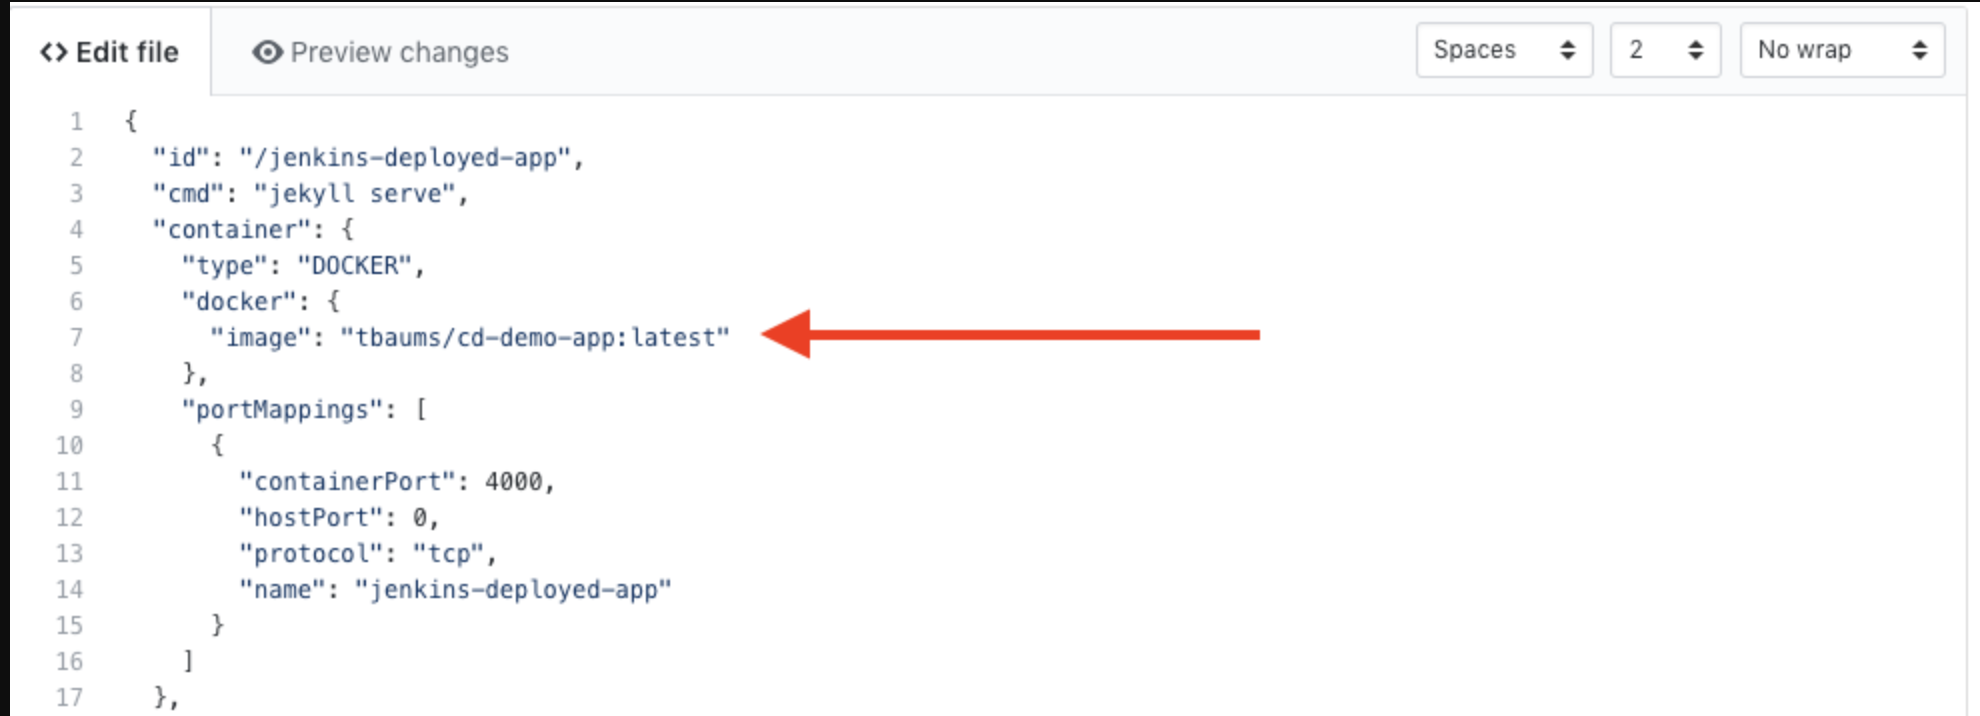
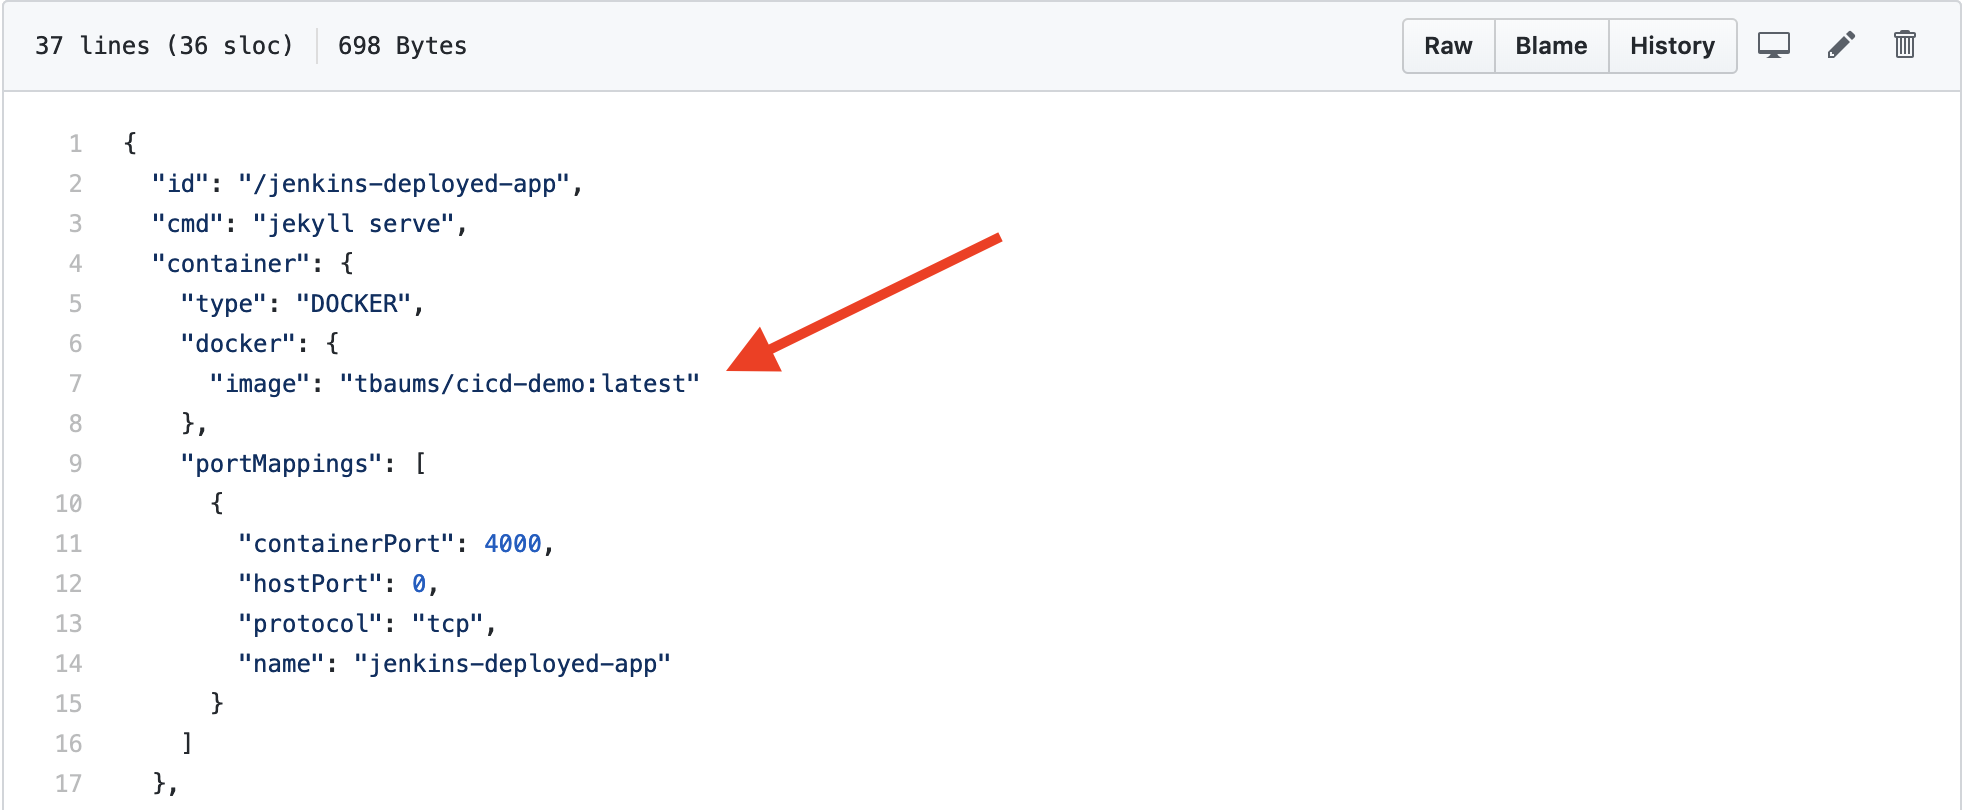
add couchbase, fix ci-cd images

diff --git a/labs/5 - Couchbase-labs/README.md b/labs/5 - Couchbase-labs/README.md
@@ -4,13 +4,19 @@ In this exercise we will experience the simplicity of deploying a fully operatio
 
 ## Deploy Couchbase Service from CLI
 
-From your DC/OS CLI, install the DC/OS Couchbase package from the Catalog.  Firstl download [couchbase.json](couchbase.json)
+From your DC/OS CLI, install the DC/OS Couchbase package from the Catalog.  First, let's download download [couchbase.json](couchbase.json) with the following command:
+
+```
+curl -O https://raw.githubusercontent.com/tbaums/dcos-NUAN-labs/master/labs/5%20-%20Couchbase/couchbase.json
+```
+
+Now, it's time to install Couchbase via the CLI:
 
 ```
 dcos package install couchbase --options=couchbase.json --yes
 ```
 
-Monitor the deployment of Couchbase.
+We can monitor the deployment of Couchbase using the command below.
 
 ```
 watch dcos couchbase plan status deploy
@@ -37,11 +43,11 @@ deploy (serial strategy) (COMPLETE)
 └─ setup-sync-gateway-nodes (serial strategy) (COMPLETE)
 ```        
 
-Hit `<Ctrl-C>` to exit the watch command and return back to your prompt.
+When all steps read "COMPLETE", use `<Ctrl-C>` to exit the watch command and return back to your prompt.
 
 ## Interacting with Couchbase from a terminal
 
-First we will ssh to one of the data nodes.
+First, we will SSH to one of the data nodes with the command below.
 
 ```
 dcos task exec -ti data-0-node bash
@@ -53,7 +59,7 @@ You should see something like:
 root@ip-172-12-18-198:/mnt/mesos/sandbox#
 ```        
 
-Create a bucket in Couchbase.
+Now we need to create a bucket in Couchbase.
 
 ```
 couchbase-cli bucket-create --cluster localhost:8091 --user Administrator --password password --bucket students --bucket-type couchbase --bucket-ramsize 1024
@@ -116,5 +122,7 @@ You should see the result below.
 ```
 
 Hit `<Ctrl-D>` to exit cbq and return back to your prompt.
+
+Congratulations! You've just deployed, configured, and executed read/write commands against your very own Couchbase instance!
 
 [Back to Labs List >>](..)
